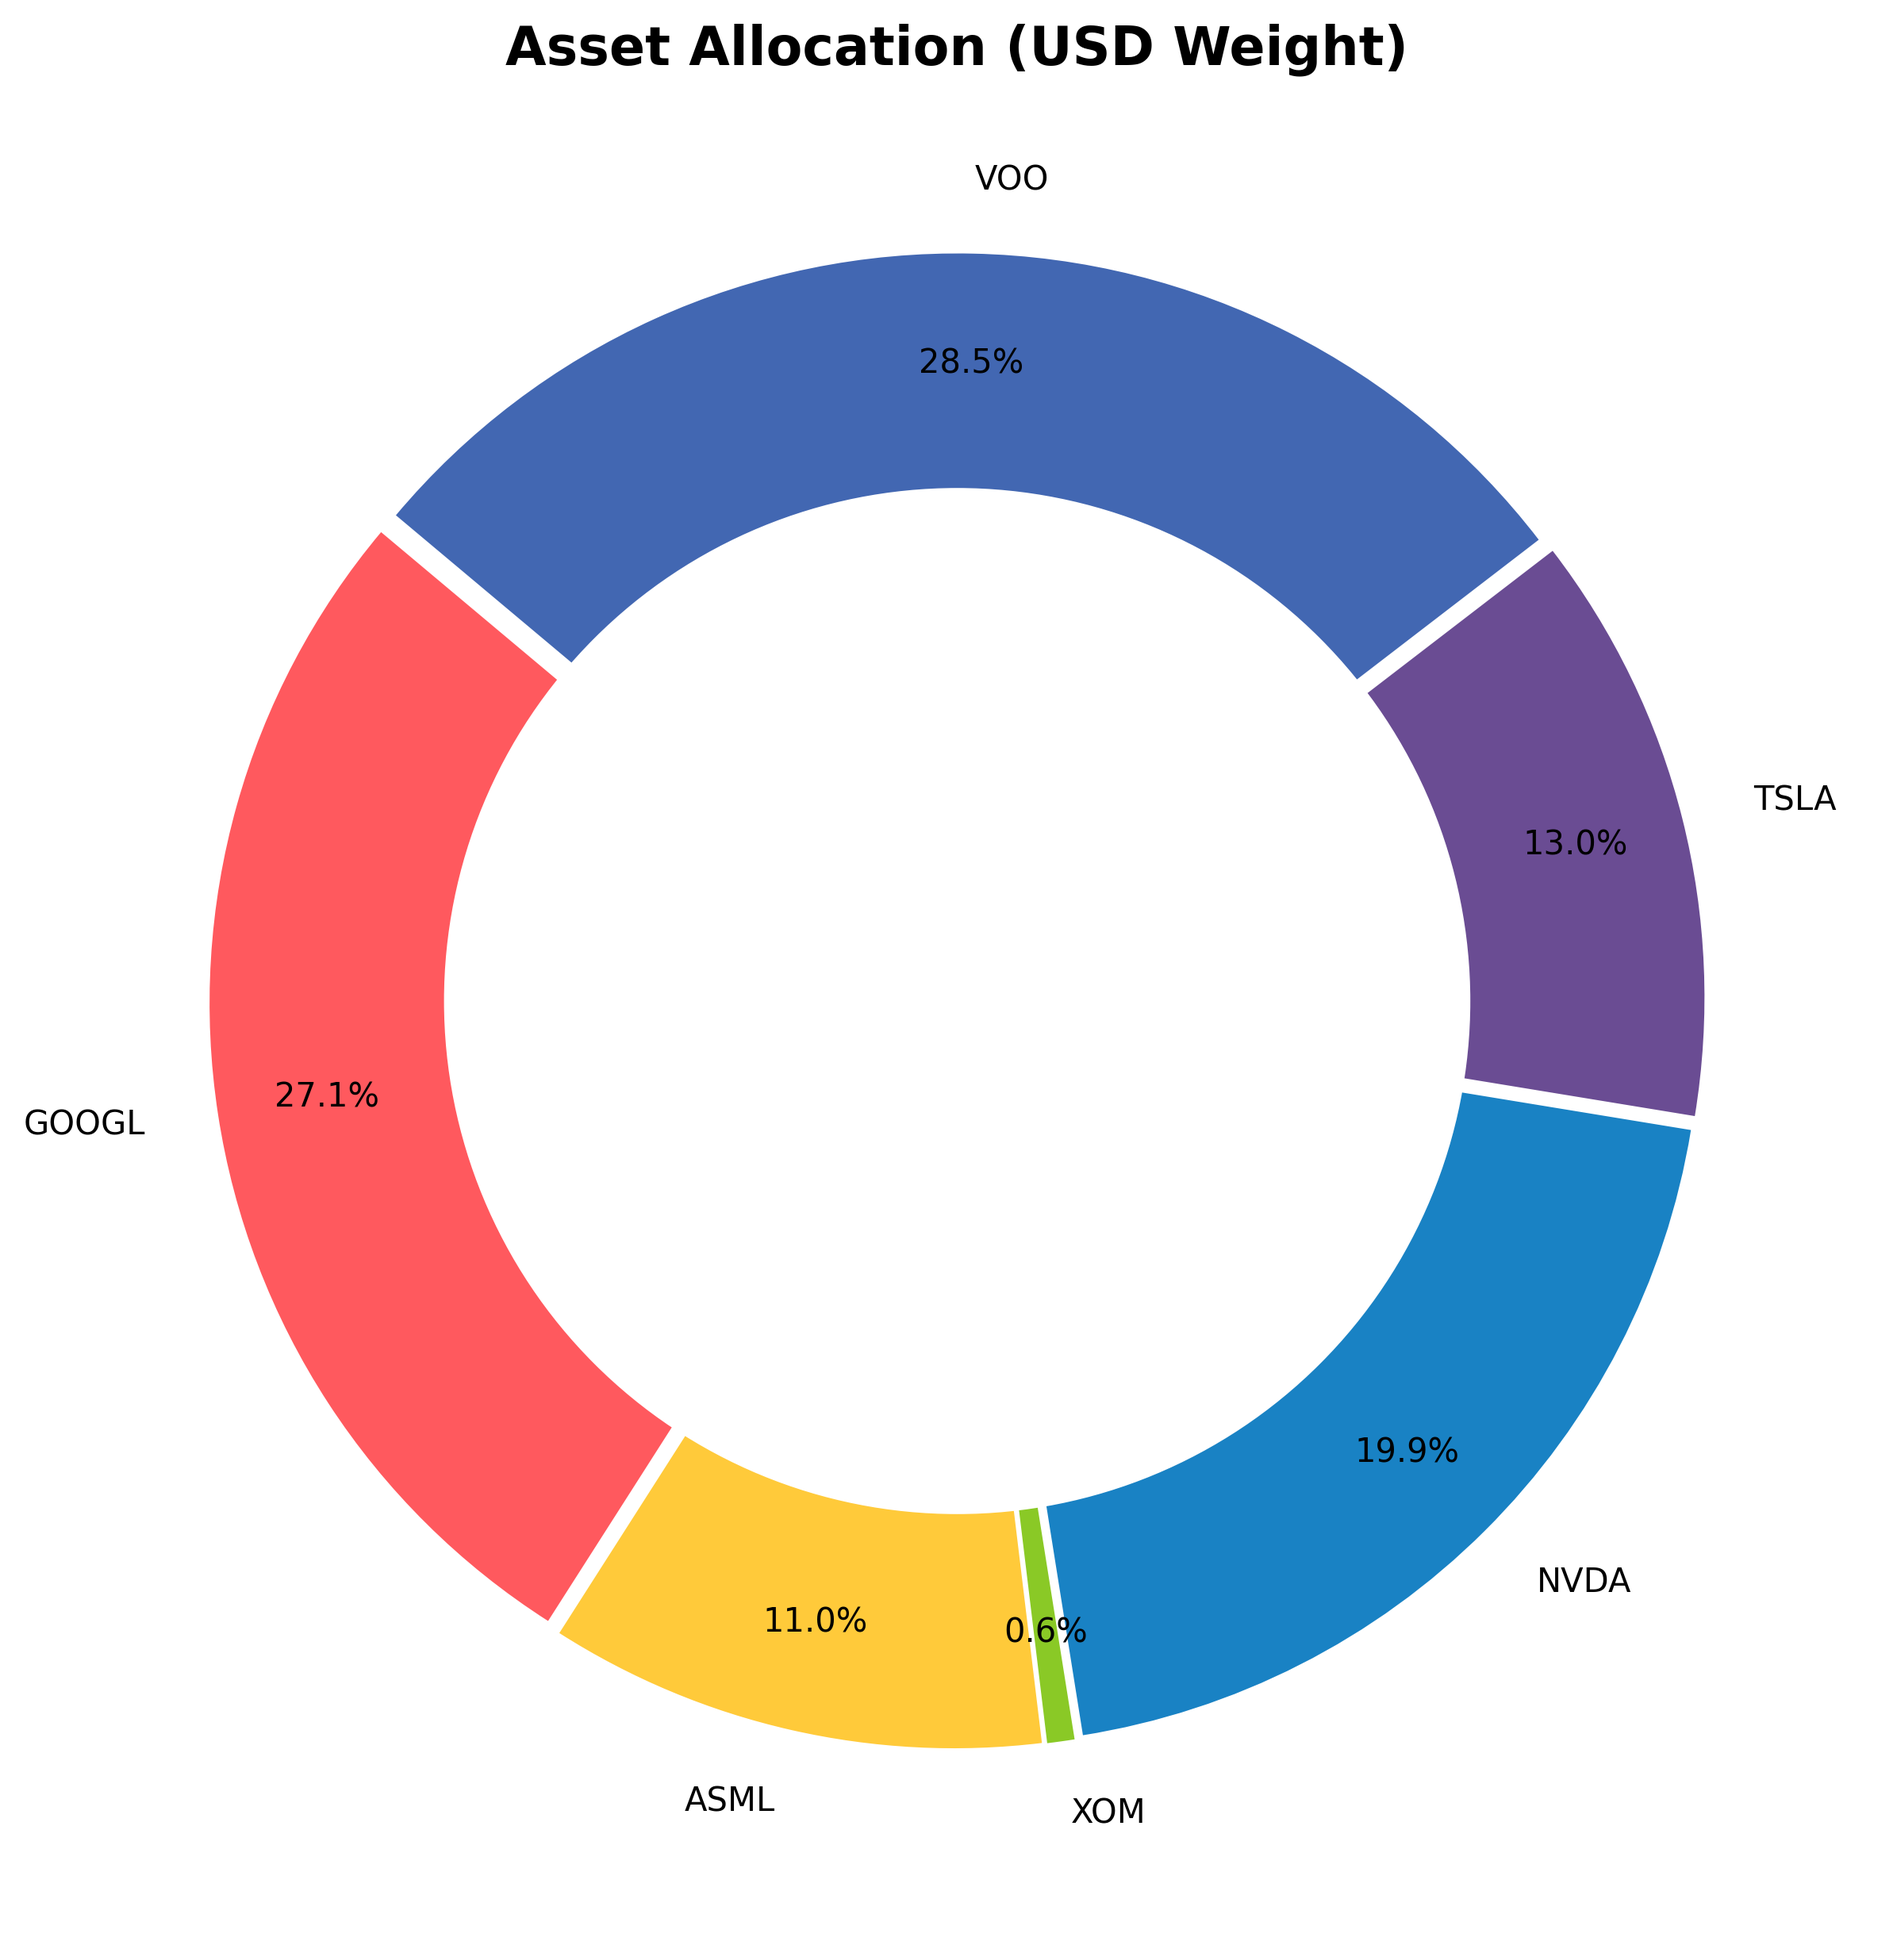
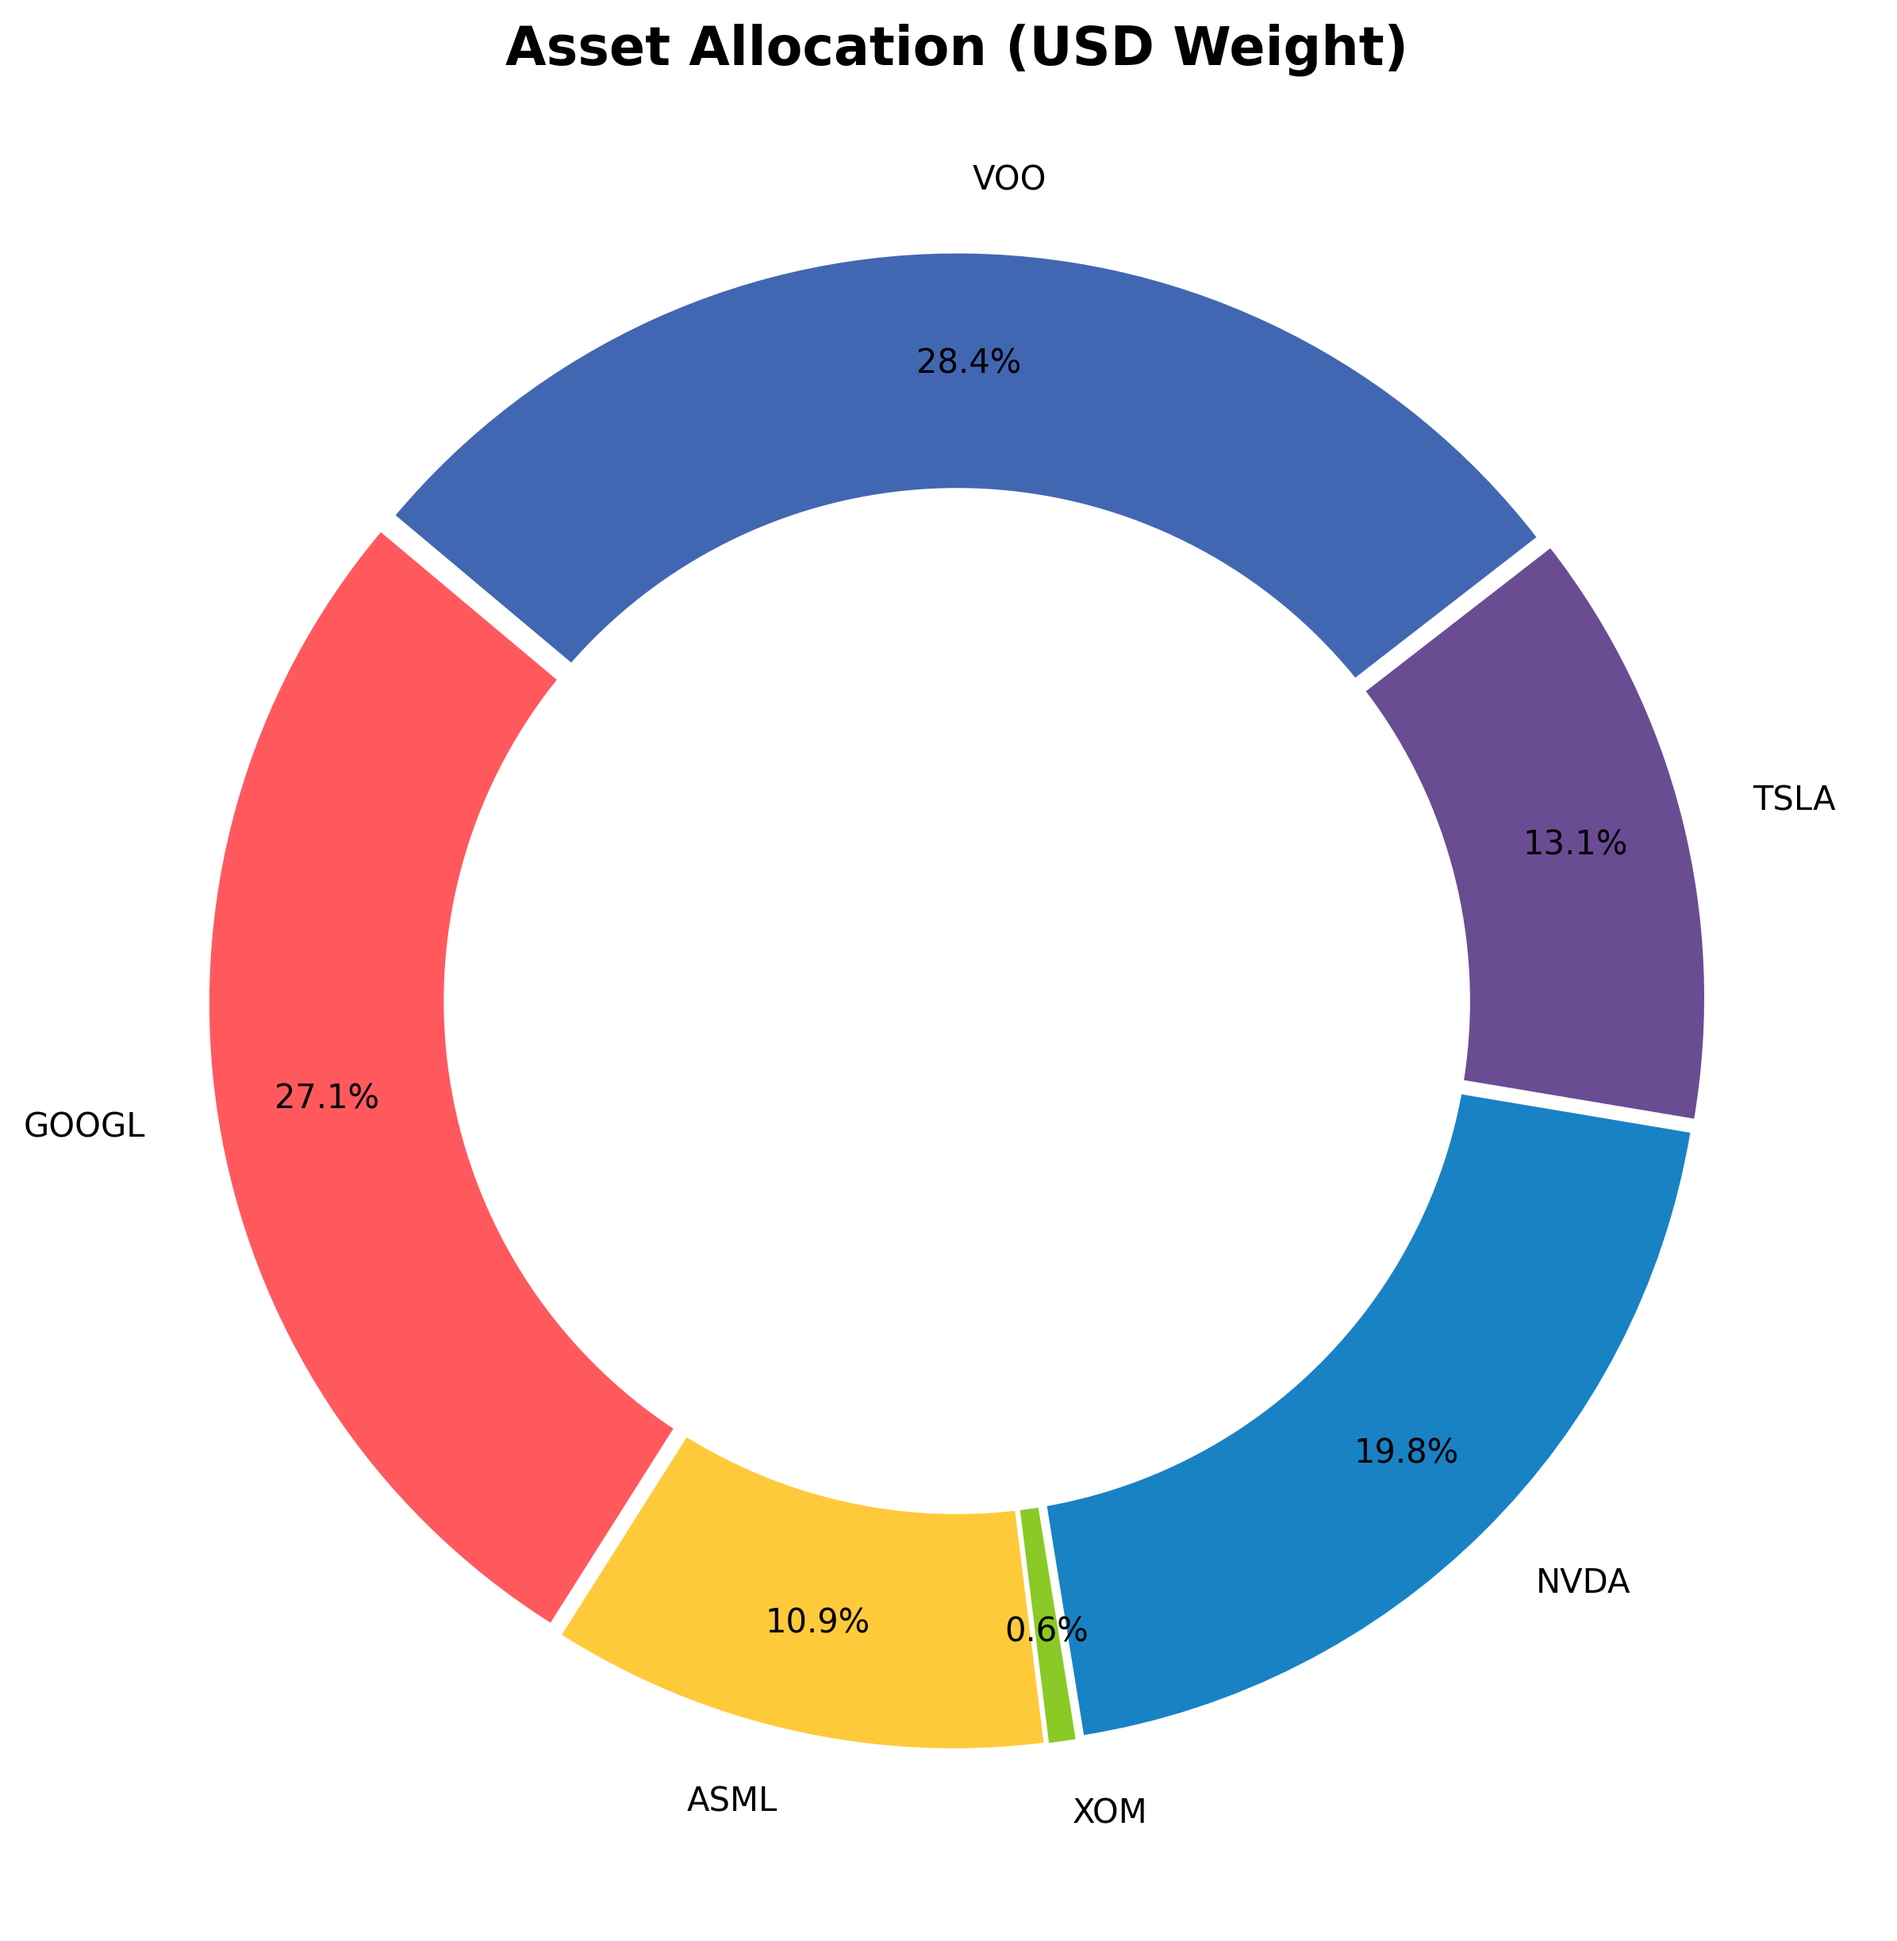
System Run: Analytics & Archive Update [skip ci]

diff --git a/README.md b/README.md
@@ -1,23 +1,23 @@
 # 📊 Portfolio Dashboard | מעקב תיק השקעות
-**Last Update:** 09/04/2026 18:27 | **USD/ILS:** ₪3.062
+**Last Update:** 09/04/2026 20:14 | **USD/ILS:** ₪3.048
 
 ## 💰 Portfolio Summary | סיכום התיק
 | Metric | Value | נתון |
 | :--- | :--- | :--- |
-| **Current Value** | `₪160,497` | **שווי נוכחי** |
-| **Total Invested** | `₪128,619` | **סך השקעה** |
-| **Total Profit/Loss** | `+24.78%` (₪31,878) | **רווח/הפסד כולל** |
-| **Daily Change** | `+2.57%` | **שינוי יומי** |
+| **Current Value** | `₪161,158` | **שווי נוכחי** |
+| **Total Invested** | `₪128,023` | **סך השקעה** |
+| **Total Profit/Loss** | `+25.88%` (₪33,136) | **רווח/הפסד כולל** |
+| **Daily Change** | `+0.63%` | **שינוי יומי** |
 
 ## 📜 Holdings | פירוט החזקות
 | Ticker | Shares | Avg. Cost | Current Price | P&L % | P&L ILS |
 | :--- | :--- | :--- | :--- | :--- | :--- |
-| GOOGL | 45 | $181.15 | $315.22 | 🟢 +74.01% | ₪18,476 |
-| ASML | 4 | $934.51 | $1,436.08 | 🟢 +53.67% | ₪6,144 |
-| XOM | 2 | $126.08 | $157.51 | 🟢 +24.93% | ₪193 |
-| NVDA | 57 | $148.62 | $182.94 | 🟢 +23.09% | ₪5,991 |
-| TSLA | 20 | $436.45 | $341.08 | 🔴 -21.85% | ₪-5,841 |
-| VOO | 24 | $527.38 | $621.48 | 🟢 +17.84% | ₪6,916 |
+| GOOGL | 45 | $181.15 | $318.80 | 🟢 +75.99% | ₪18,881 |
+| ASML | 4 | $934.51 | $1,445.34 | 🟢 +54.66% | ₪6,228 |
+| XOM | 2 | $126.08 | $154.69 | 🟢 +22.69% | ₪174 |
+| NVDA | 57 | $148.62 | $183.76 | 🟢 +23.64% | ₪6,105 |
+| TSLA | 20 | $436.45 | $347.48 | 🔴 -20.38% | ₪-5,424 |
+| VOO | 24 | $527.38 | $625.39 | 🟢 +18.58% | ₪7,170 |
 
 ## 📈 Charts | גרפים
 ![Performance](./data_hub/portfolio_performance.png)
